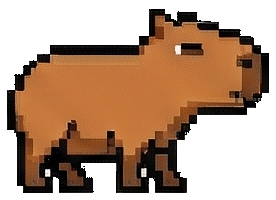
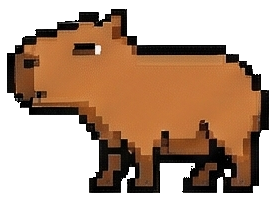
Fix gameplay, visuals and mobile viewport
- Fix capybara floating after stomp: anchor flat sprite bottom to walk
  sprite bottom before switching texture
- Use both capy_flat1/flat2 randomly on stomp (no animation)
- Flip capy_walk sprites horizontally so they face left natively,
  removing setFlipX(true) from code
- Reduce lives from 5 to 3
- Game Over screen: add resolution:2 to all text, rework color scheme
  (navy overlay, gold title, orange subtitle, sky-blue credits,
  yellow CTA button)
- Mobile viewport: use visualViewport instead of innerHeight to exclude
  browser chrome; add visualViewport.resize listener; dispatch resize
  to Phaser after orientation change; add viewport-fit=cover

diff --git a/scenes/GameOverScene.js b/scenes/GameOverScene.js
@@ -10,92 +10,88 @@ class GameOverScene extends Phaser.Scene {
         const W = this.scale.width;
         const H = this.scale.height;
 
-        // Fundo escurecido
-        const bg = this.add.rectangle(W/2, H/2, W, H, 0x000000, 0.75);
+        // Overlay escuro azul-marinho
+        this.add.rectangle(W/2, H/2, W, H, 0x001030, 0.88);
+
+        const txt = (x, y, str, style) =>
+            this.add.text(x, y, str, { fontFamily: 'monospace', resolution: 2, ...style })
+                .setOrigin(0.5);
 
         // Título
-        this.add.text(W/2, H/2 - 70, 'FIM DE JOGO', {
-            fontFamily: 'monospace',
-            fontSize: '28px',
-            color: '#ff4444',
-            stroke: '#000',
-            strokeThickness: 5
-        }).setOrigin(0.5);
+        txt(W/2, H/2 - 88, 'FIM DE JOGO', {
+            fontSize: '22px',
+            color: '#ffe040',
+            stroke: '#000000',
+            strokeThickness: 6
+        });
 
-        // Subtítulo temático
-        this.add.text(W/2, H/2 - 38, 'As capivaras venceram dessa vez...', {
-            fontFamily: 'monospace',
-            fontSize: '9px',
-            color: '#ffddaa',
-            stroke: '#000',
+        // Subtítulo
+        txt(W/2, H/2 - 62, 'As capivaras venceram dessa vez...', {
+            fontSize: '10px',
+            color: '#ff8844',
+            stroke: '#000000',
             strokeThickness: 3
-        }).setOrigin(0.5);
+        });
 
         // Pontuação
-        this.add.text(W/2, H/2 - 10, `Pontuação: ${String(this.finalScore).padStart(6,'0')}`, {
-            fontFamily: 'monospace',
+        txt(W/2, H/2 - 36, `PONTUAÇÃO   ${String(this.finalScore).padStart(6, '0')}`, {
             fontSize: '12px',
             color: '#ffffff',
-            stroke: '#000',
+            stroke: '#000000',
             strokeThickness: 3
-        }).setOrigin(0.5);
+        });
 
-        this.add.text(W/2, H/2 + 10, `Tempo: ${this.finalTime}s`, {
-            fontFamily: 'monospace',
+        txt(W/2, H/2 - 18, `TEMPO       ${String(this.finalTime).padStart(3, '0')} s`, {
             fontSize: '12px',
             color: '#ffffff',
-            stroke: '#000',
+            stroke: '#000000',
             strokeThickness: 3
-        }).setOrigin(0.5);
+        });
 
         // Crédito comemorativo
-        this.add.text(W/2, H/2 + 36, '100 anos da visita de Marie Curie', {
-            fontFamily: 'monospace',
-            fontSize: '8px',
-            color: '#aaddff',
-            stroke: '#000',
+        txt(W/2, H/2 + 8, '100 anos da visita de Marie Curie', {
+            fontSize: '9px',
+            color: '#66ccff',
+            stroke: '#000000',
             strokeThickness: 2
-        }).setOrigin(0.5);
-        this.add.text(W/2, H/2 + 50, 'Águas de Lindóia • 1926 – 2026', {
-            fontFamily: 'monospace',
-            fontSize: '8px',
-            color: '#aaddff',
-            stroke: '#000',
+        });
+        txt(W/2, H/2 + 22, 'Águas de Lindóia  •  1926 – 2026', {
+            fontSize: '9px',
+            color: '#66ccff',
+            stroke: '#000000',
             strokeThickness: 2
-        }).setOrigin(0.5);
+        });
 
         // Botão jogar de novo
-        const btn = this.add.text(W/2, H/2 + 80, '[ JOGAR NOVAMENTE ]', {
-            fontFamily: 'monospace',
-            fontSize: '11px',
-            color: '#ffff00',
-            stroke: '#000',
-            strokeThickness: 3,
-            backgroundColor: '#333300',
-            padding: { x: 10, y: 6 }
-        }).setOrigin(0.5).setInteractive({ useHandCursor: true });
+        const btn = txt(W/2, H/2 + 55, '▶  JOGAR NOVAMENTE', {
+            fontSize: '12px',
+            color: '#111111',
+            stroke: '#000000',
+            strokeThickness: 2,
+            backgroundColor: '#ffdd00',
+            padding: { x: 14, y: 7 }
+        }).setInteractive({ useHandCursor: true });
 
-        btn.on('pointerover',  () => btn.setColor('#ffffff'));
-        btn.on('pointerout',   () => btn.setColor('#ffff00'));
+        btn.on('pointerover',  () => btn.setBackgroundColor('#ffffff'));
+        btn.on('pointerout',   () => btn.setBackgroundColor('#ffdd00'));
         btn.on('pointerdown',  () => this.scene.start('GameScene'));
 
         // Créditos
-        this.add.text(W/2, H/2 + 104, 'Desenvolvido por: Andre Suman | @andresuman', {
-            fontFamily: 'monospace',
+        txt(W/2, H/2 + 90, 'Desenvolvido por Andre Suman  |  @andresuman', {
             fontSize: '8px',
-            color: '#ffffff',
-            stroke: '#000',
+            color: '#888888',
+            stroke: '#000000',
             strokeThickness: 2
-        }).setOrigin(0.5);
+        });
 
-        // Também reinicia com qualquer tecla
+        // Reinicia com qualquer tecla
         this.input.keyboard.once('keydown', () => this.scene.start('GameScene'));
 
-        // Animação piscando no botão
+        // Botão pisca
         this.tweens.add({
             targets: btn,
-            alpha: 0.4,
-            duration: 600,
+            alpha: 0.5,
+            duration: 550,
             yoyo: true,
             repeat: -1
         });

diff --git a/index.html b/index.html
@@ -2,7 +2,7 @@
 <html lang="pt-BR">
 <head>
     <meta charset="UTF-8">
-    <meta name="viewport" content="width=device-width, initial-scale=1.0, maximum-scale=1.0, user-scalable=no">
+    <meta name="viewport" content="width=device-width, initial-scale=1.0, maximum-scale=1.0, user-scalable=no, viewport-fit=cover">
     <!-- Evita cache agressivo durante desenvolvimento/local -->
     <meta http-equiv="Cache-Control" content="no-cache, no-store, must-revalidate" />
     <meta http-equiv="Pragma" content="no-cache" />
@@ -35,20 +35,37 @@
 </head>
 <body>
     <script>
-        // Em mobile, 100vh pode incluir/excluir a barra do navegador dependendo do estado.
-        // Esse ajuste usa a altura real visível e evita o canvas ficar "cortado" no landscape.
+        // visualViewport desconta a barra do navegador (endereços, menu inferior),
+        // dando a área realmente visível — mais preciso que window.innerHeight no mobile.
         (function () {
-            function setVh() {
-                const vh = window.innerHeight * 0.01;
-                document.documentElement.style.setProperty('--vh', `${vh}px`);
+            function setSize() {
+                var vv = window.visualViewport;
+                var h = vv ? vv.height : window.innerHeight;
+                var w = vv ? vv.width  : window.innerWidth;
+                document.documentElement.style.setProperty('--vh', (h * 0.01) + 'px');
+                document.documentElement.style.setProperty('--vw', (w * 0.01) + 'px');
+                // Avisa o Phaser para recalcular a escala
+                window.dispatchEvent(new Event('resize'));
             }
-            window.addEventListener('resize', setVh, { passive: true });
-            window.addEventListener('orientationchange', setVh, { passive: true });
-            setVh();
 
-            // Aplica a variável no body/html (sem depender de CSS moderno como 100dvh).
-            const style = document.createElement('style');
-            style.textContent = `html, body { height: calc(var(--vh, 1vh) * 100); }`;
+            // visualViewport.resize dispara quando a barra do browser aparece/some
+            if (window.visualViewport) {
+                window.visualViewport.addEventListener('resize', setSize, { passive: true });
+            }
+            window.addEventListener('resize',            setSize, { passive: true });
+            // orientationchange: aguarda 200 ms para o browser terminar de girar
+            window.addEventListener('orientationchange', function () {
+                setTimeout(setSize, 200);
+            }, { passive: true });
+
+            setSize();
+
+            var style = document.createElement('style');
+            style.textContent =
+                'html, body {' +
+                '  height: calc(var(--vh, 1vh) * 100);' +
+                '  width:  calc(var(--vw, 1vw) * 100);' +
+                '}';
             document.head.appendChild(style);
         })();
     </script>

diff --git a/scenes/GameScene.js b/scenes/GameScene.js
@@ -5,7 +5,7 @@ const MARIE_SCALE = 0.28;
 const CAPY_SCALE  = 0.22;
 const MARIE_SPEED = 140;
 const JUMP_VY     = -440;
-const LIVES_START = 5;
+const LIVES_START = 3;
 const CAPY_SPEED  = 60;
 
 class GameScene extends Phaser.Scene {
@@ -140,10 +140,6 @@ class GameScene extends Phaser.Scene {
         const capy = this.capybaras.create(x, GROUND_Y - 30, 'capy_walk1')
             .setScale(CAPY_SCALE)
             .setVelocityX(-CAPY_SPEED)
-            // Os frames de caminhada estão virados para a direita no arquivo,
-            // mas a capivara anda para a esquerda: espelha durante a caminhada.
-            .setFlipX(true)
-            // Inimigos também devem ficar à frente do cenário (ex.: capela)
             .setDepth(10);
 
         // Body: 276×200 → escala 0.22 → ~61×44px
@@ -160,11 +156,15 @@ class GameScene extends Phaser.Scene {
 
         if (marieFeet <= capyTop + 14 && marie.body.velocity.y > 0) {
             // Pisou na capivara!
-            capy.anims.play('capy-flat', true);
-            // Os sprites "flat" já estão na orientação correta, então remove o flip.
-            capy.setFlipX(false);
+            // Guarda a borda inferior visual antes de trocar o sprite (flat é menos alto).
+            const visualBottom = capy.y + capy.displayHeight / 2;
+            capy.anims.stop();
+            capy.setTexture(Phaser.Math.RND.pick(['capy_flat1', 'capy_flat2']));
             capy.setVelocityX(0);
             capy.body.enable = false;
+            // Reposiciona para que a base do sprite flat fique no mesmo lugar que a base
+            // do sprite de caminhada (evita a capivara "flutuar" após ser pisada).
+            capy.y = visualBottom - capy.displayHeight / 2;
             this.score += 100;
             this.events.emit('scoreChanged', this.score);
             marie.setVelocityY(JUMP_VY * 0.5);
